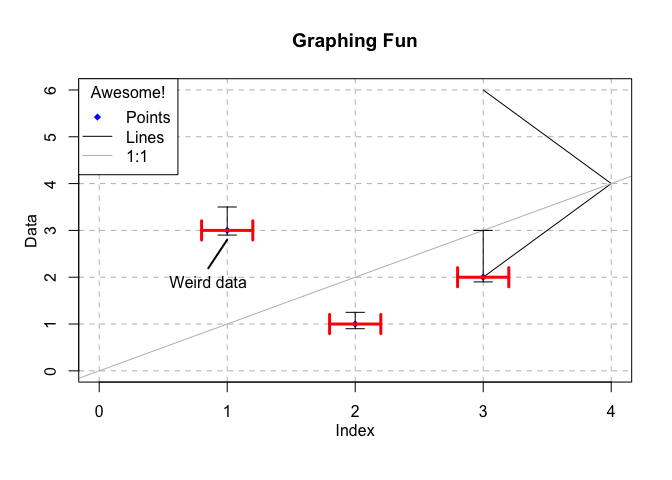
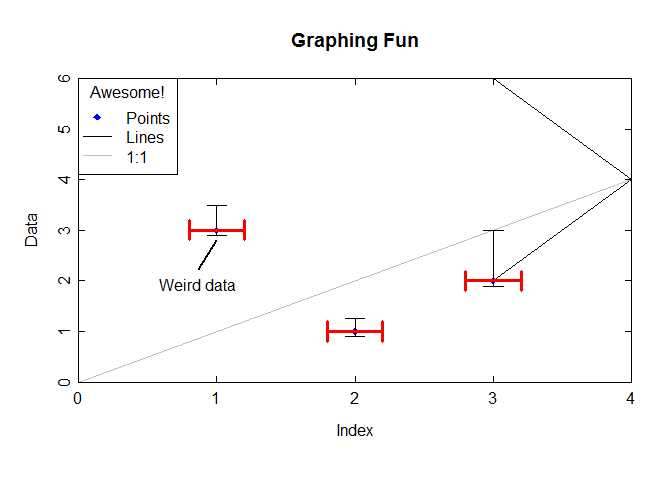
Something's amiss with grid, I'm not sure what, but the readme example highlights it.

diff --git a/README.md b/README.md
@@ -31,8 +31,9 @@ demoPlot <- gsplot() %>%
          col="blue", pch=18, legend.name="Points", xlab="Index") %>%
   lines(c(3,4,3), c(2,4,6), legend.name="Lines", ylab="Data") %>%
   abline(b=1, a=0, legend.name="1:1") %>%
+  axis(side=c(3,4), labels=FALSE) %>%
   legend(location="topleft",title="Awesome!") %>%
-  grid() %>%
+  # grid() %>%
   error_bar(x=1:3, y=c(3,1,2), y.high=c(0.5,0.25,1), y.low=0.1) %>%
   error_bar(x=1:3, y=c(3,1,2), x.low=.2, x.high=.2, col="red",lwd=3) %>%
   callouts(x=1, y=2.8, lwd=2, angle=250, labels="Weird data") %>%
@@ -45,12 +46,13 @@ demoPlot
 ``` r
 library(gsplot)
 
-demoPlot <- gsplot() %>%
+gs <- gsplot() %>%
   points(y=c(3,1,2,4,5), x=c(1:3,8,80), col="blue", pch=18, legend.name="Points") %>%
   lines(c(3,4,3), c(2,4,6), legend.name="Lines", ylab="logged y axis", xlab="logged x axis", log='xy') %>%
   callouts(x=8, y=4, lwd=2, angle=45, labels="Not sure about this one") %>%
-  title("logged axes")
-demoPlot
+  title("logged axes") %>%
+  axis(side=c(1,2,3,4), labels=FALSE, n.minor=4)
+gs
 ```
 
 ![](README_files/figure-markdown_github/unnamed-chunk-3-1.png)
